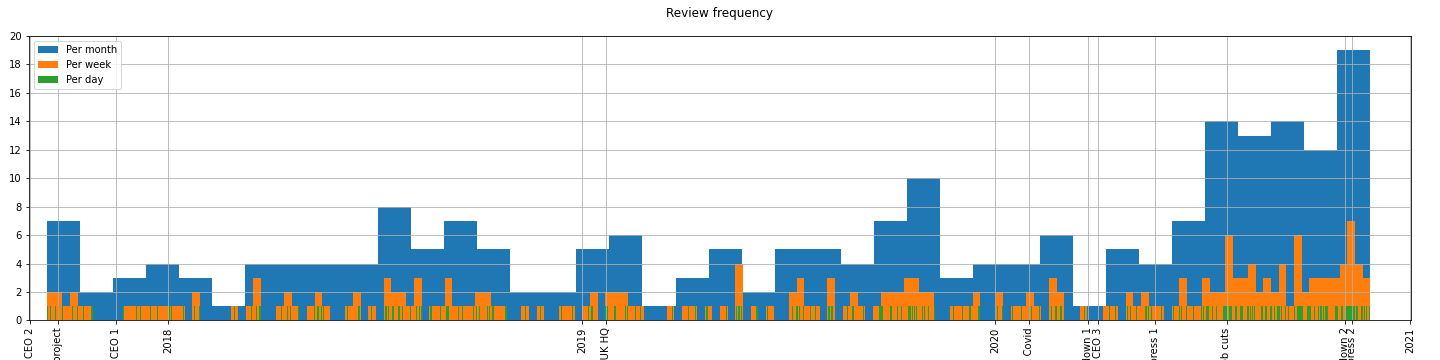
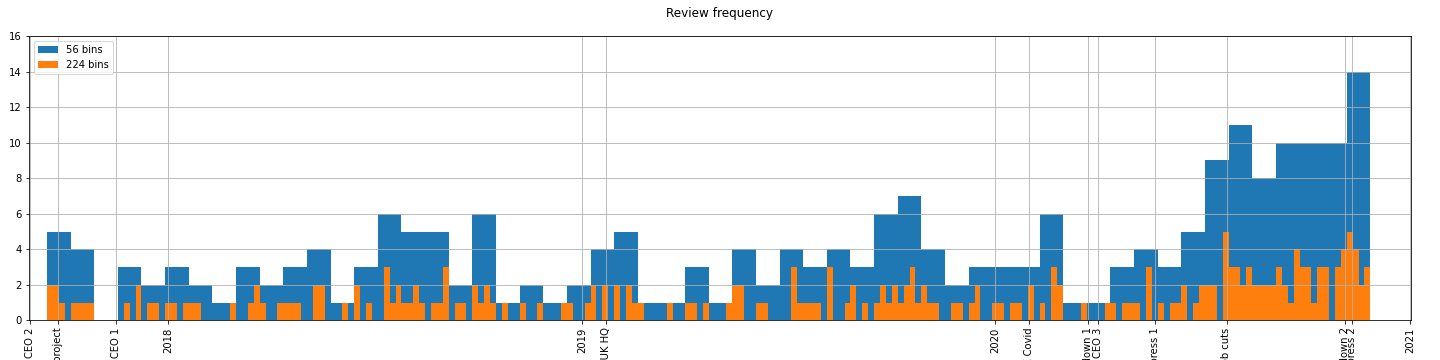
updated review_freq plot

diff --git a/main.py b/main.py
@@ -283,10 +283,9 @@ fig.set_facecolor("white")
 fig.suptitle("Review frequency")
 fig.subplots_adjust(left=0.02, bottom=0.11, right=0.98, top=0.9)
 
-days = (END_DATE - START_DATE).days
-ax.hist(count, bins=int(days * 12 / 365), label="Per month")
-ax.hist(count, bins=int(days * 52 / 365), label="Per week")
-ax.hist(count, bins=int(days), label="Per day")
+n_unique_days = len(count)
+ax.hist(count, bins=n_unique_days // 4, label=f"{n_unique_days // 4} bins")
+ax.hist(count, bins=n_unique_days, label=f"{n_unique_days} bins")
 
 ax.set_xticks(xticks)
 ax.set_xticklabels(xticklabels, rotation=90)
